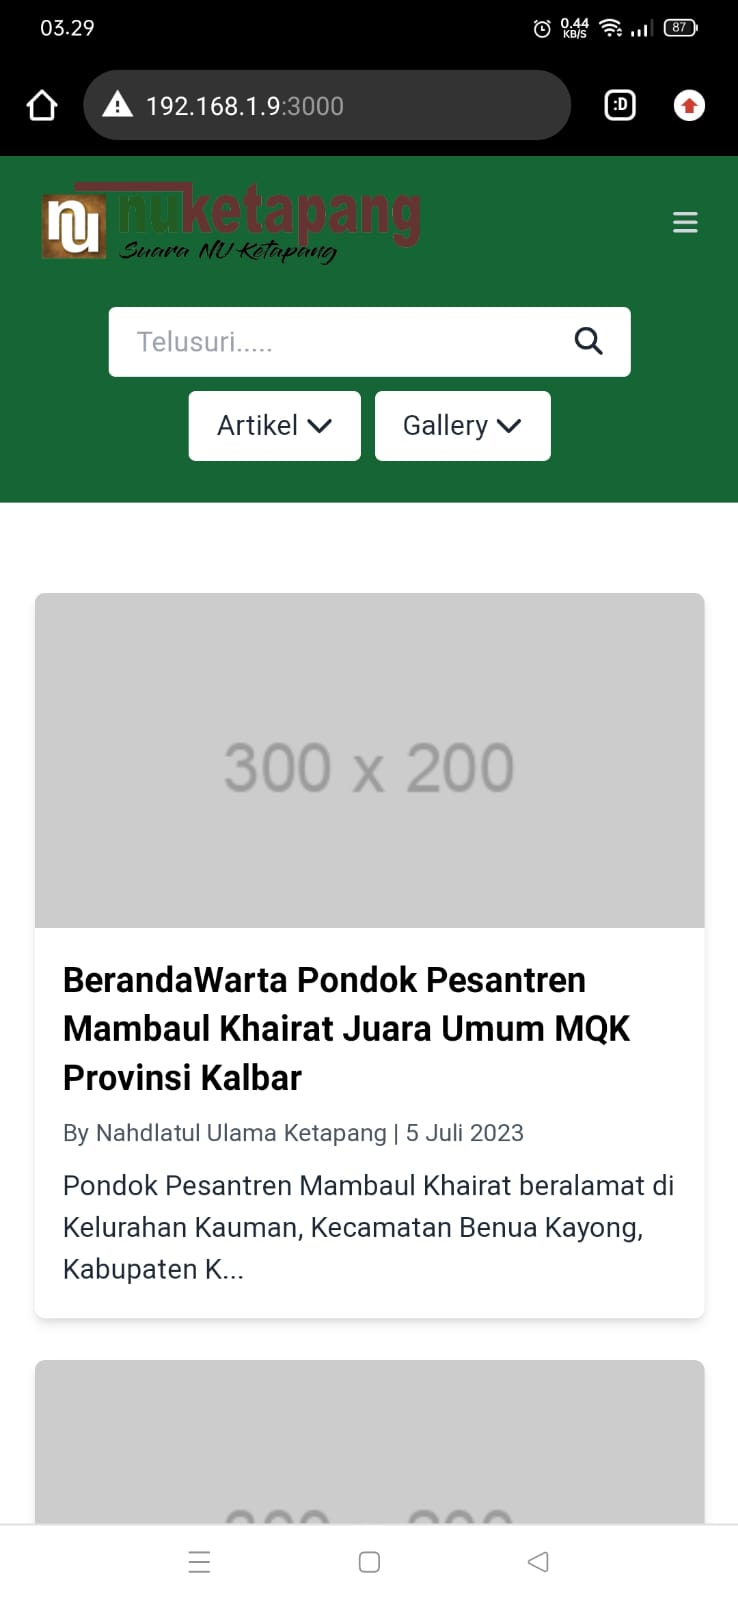
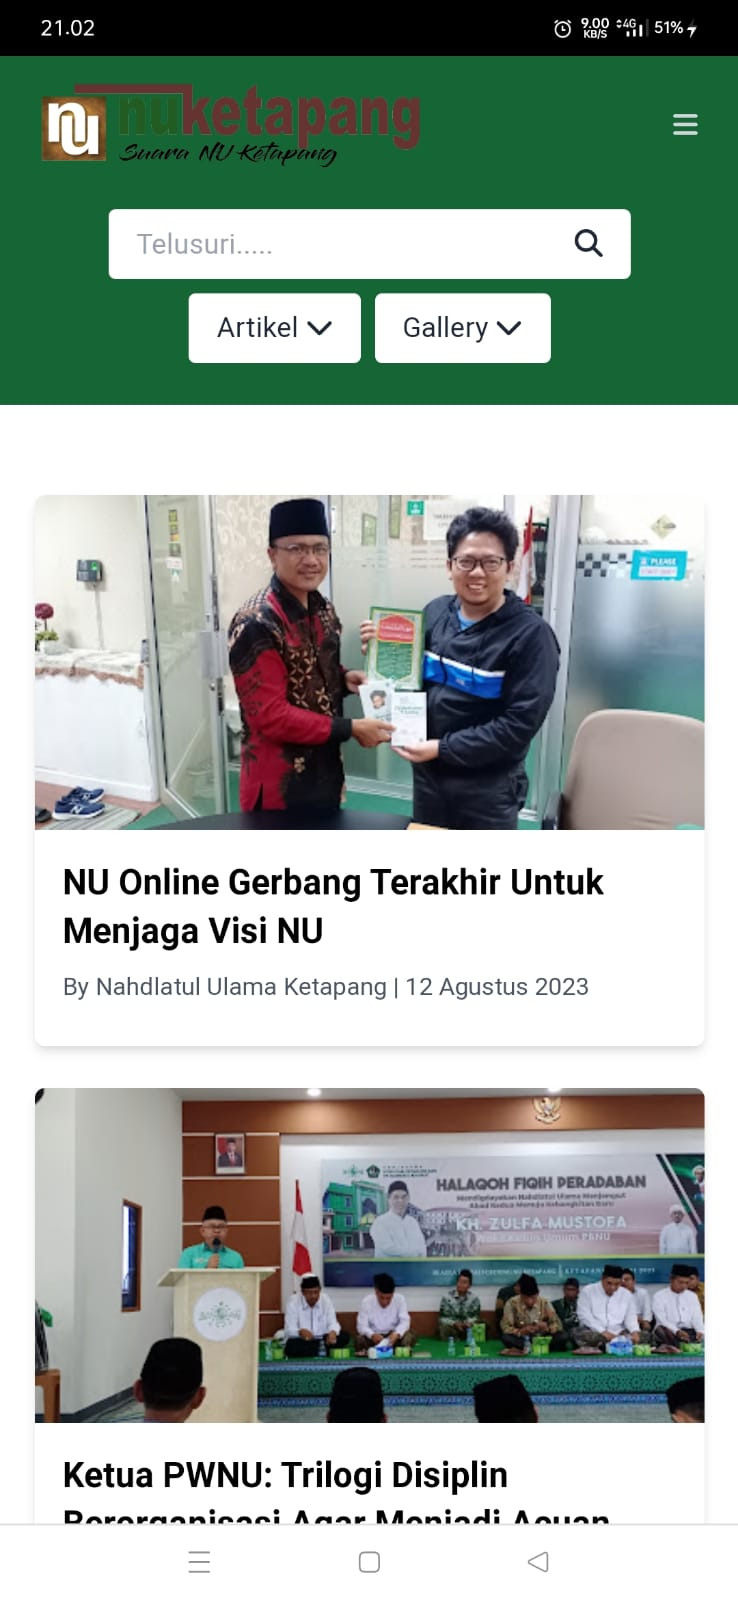
update-project

diff --git a/src/View/Home/Project/Project6.js b/src/View/Home/Project/Project6.js
@@ -2,24 +2,24 @@ import React, { useState, useEffect } from "react";
 import "react-image-gallery/styles/css/image-gallery.css";
 import { motion } from "framer-motion";
 import ImageGallery from "react-image-gallery";
-import ft1 from "../../../Asset/nu1.png";
-import ft2 from "../../../Asset/nu2.png";
-import ft3 from "../../../Asset/nu3.png";
-import ft4 from "../../../Asset/nu5.png";
-import ft5 from "../../../Asset/nu4.png";
+import ft1 from "../../../Asset/blog-mobile1.jpg"
+import ft2 from "../../../Asset/blog-mobile2.jpg";
+import ft3 from "../../../Asset/blog-mobile3.jpg";
+import ft4 from "../../../Asset/blog-mobile4.jpg";
+import ft5 from "../../../Asset/blog-mobile5.jpg";
 
 import { Link, useLocation } from "react-router-dom";
 import { FontAwesomeIcon } from "@fortawesome/react-fontawesome";
 import { faHome } from "@fortawesome/free-solid-svg-icons";
 
-function Project5() {
+function Project6() {
   const [showMobileMenu, setShowMobileMenu] = useState(false);
   const [thumbnailsClass, setThumbnailsClass] = useState("");
 
   const project = {
-    name: "NU-Ketapang Web Blog",
+    name: "NU-Ketapang news portal",
     description:
-      "This application is a website for Nahdalatul Ulama, this website was created with the aim of sharing information related to NU activities. This website is built using React JS",
+      "Nahdalatul Ulama news portal from the web bloggers project, this application is developed using react native",
     images: [
       { original: ft1, thumbnail: ft1 },
       { original: ft2, thumbnail: ft2 },
@@ -28,8 +28,8 @@ function Project5() {
       { original: ft5, thumbnail: ft5 },
      
     ],
-    link: "https://github.com/Genta-arya/Nu-WebBlog",
-    demo: "https://nu-ketapang.vercel.app",
+    link: "https://github.com/Genta-arya/blog-mobile-version",
+   
   };
 
   const toggleMobileMenu = () => {
@@ -135,19 +135,10 @@ function Project5() {
           Source Code
         </motion.a>
 
-        <motion.a
-          href={project.demo}
-          target="_blank"
-          rel="noopener noreferrer"
-          className="inline-block bg-blue-500 text-white py-2 px-4 rounded-lg hover:bg-blue-600 transition-colors ml-5"
-          whileHover={{ scale: 1.05 }}
-          whileTap={{ scale: 0.95 }}
-        >
-          Demo
-        </motion.a>
+    
       </motion.div>
     </div>
   );
 }
 
-export default Project5;
+export default Project6;

diff --git a/src/View/Home/Beranda.js b/src/View/Home/Beranda.js
@@ -13,6 +13,7 @@ import mysql from "../../Asset/icons8-mysql-48.png";
 import express from "../../Asset/icons8-express-js-48.png";
 import android from "../../Asset/icons8-android-48.png";
 import waste from "../../Asset/waste1.png";
+import mobile from "../../Asset/blog-mobile1.jpg";
 import { faEnvelope } from "@fortawesome/free-solid-svg-icons";
 
 import { Link } from "react-router-dom";
@@ -65,6 +66,13 @@ function Beranda() {
       description:
         "Development Web blog Nahdalatul Ulama using react js and tailwind css.",
       image: Bloogers,
+    },
+    {
+      id: 6,
+      name: "Bloggers Mobile",
+      description:
+        "Nahdalatul Ulama news portal from the web bloggers project, this application is developed using react native",
+      image: mobile,
     },
   ];
 

diff --git a/src/App.js b/src/App.js
@@ -7,6 +7,7 @@ import Project3 from './View/Home/Project/Project3';
 import Project4 from './View/Home/Project/Project4';
 import Project5 from './View/Home/Project/Project5';
 import DetailNotFound from './View/Home/Project/Notfound';
+import Project6 from './View/Home/Project/Project6';
 
 function App() {
   return (
@@ -19,6 +20,7 @@ function App() {
           <Route path="/project/3" element={<Project3 />} />
           <Route path="/project/4" element={<Project4 />} />
           <Route path="/project/5" element={<Project5 />} />
+          <Route path="/project/6" element={<Project6 />} />
           <Route path="*" element={<DetailNotFound />} />
         </Routes>
       </div>
